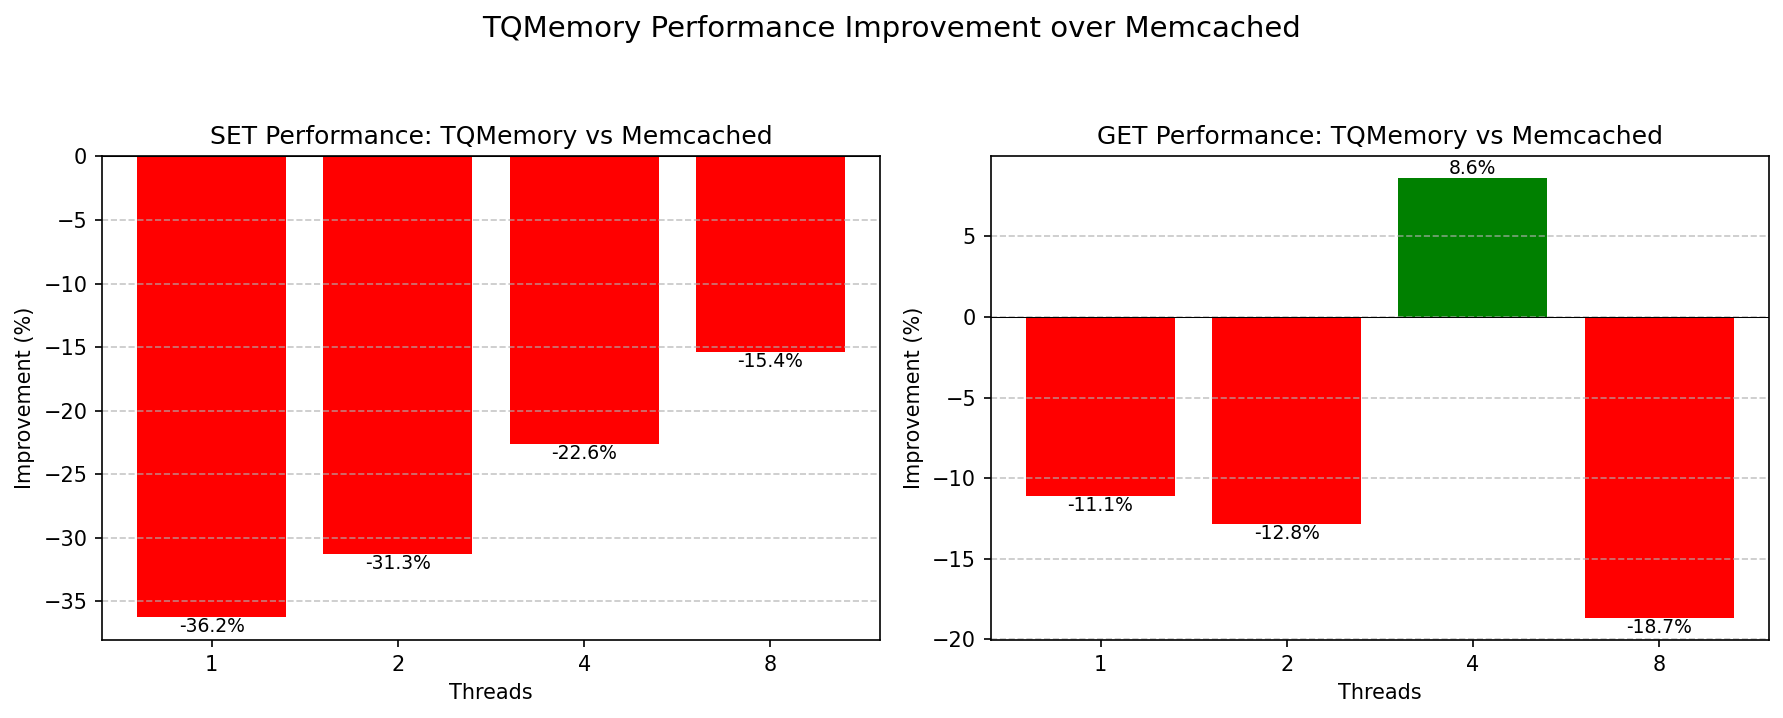
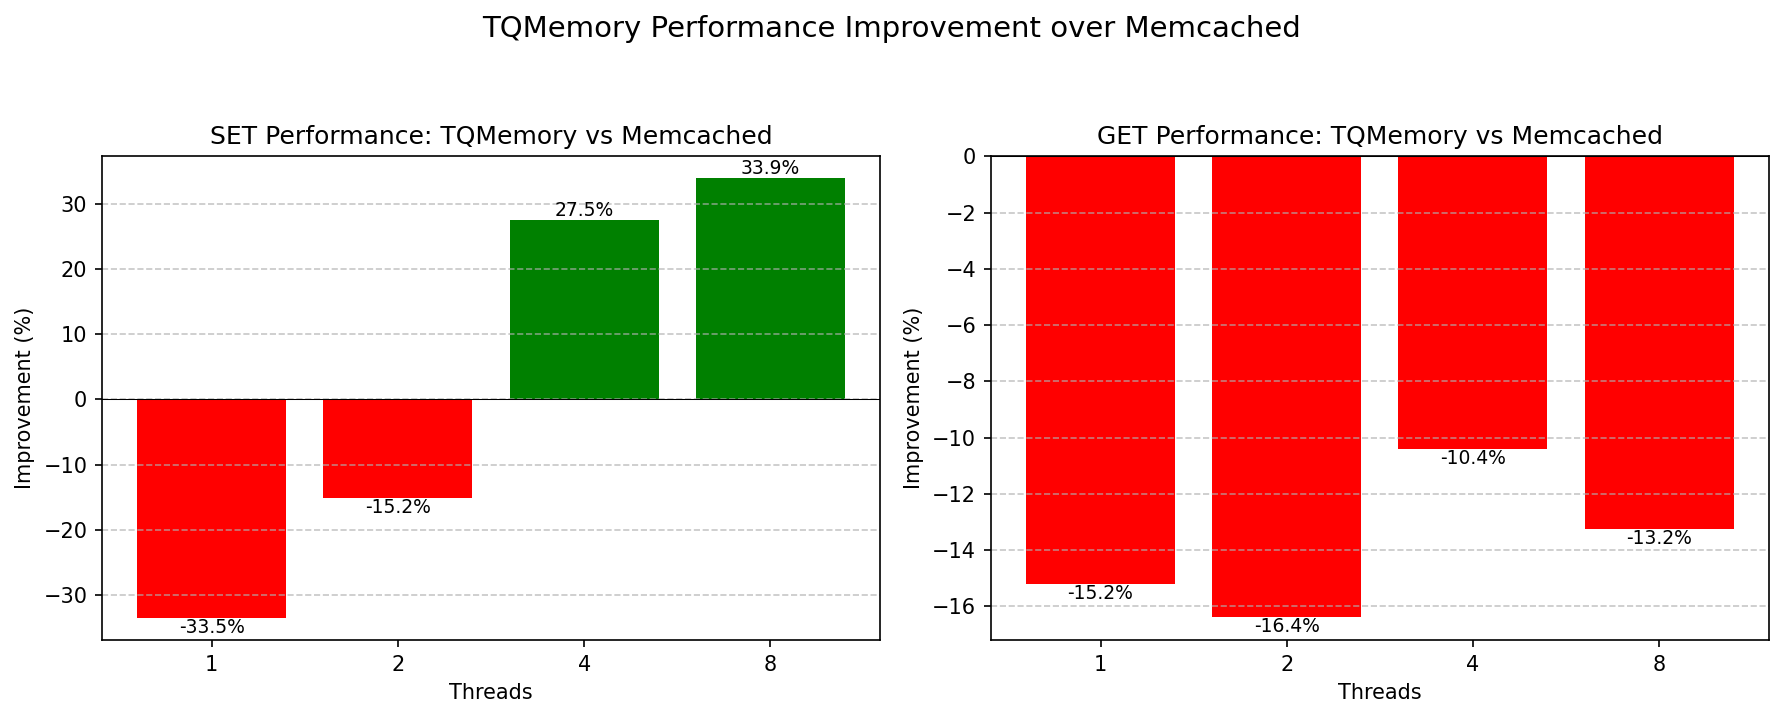
update

diff --git a/pkg/tqmemory/worker.go b/pkg/tqmemory/worker.go
@@ -115,9 +115,9 @@ func (w *Worker) Close() error {
 func (w *Worker) run() {
 	defer w.wg.Done()
 
-	// Background expiration ticker
-	expiryTicker := time.NewTicker(100 * time.Millisecond)
-	defer expiryTicker.Stop()
+	// Background ticker for maintenance tasks
+	ticker := time.NewTicker(100 * time.Millisecond)
+	defer ticker.Stop()
 
 	for {
 		select {
@@ -126,8 +126,8 @@ func (w *Worker) run() {
 			w.mu.Lock()
 			w.handleRequest(req)
 			w.mu.Unlock()
-		case <-expiryTicker.C:
-			// Batch process LRU touches and expire keys every 100ms
+		case <-ticker.C:
+			// Batch process: LRU touches and expiry
 			w.mu.Lock()
 			w.drainTouchChan()
 			w.expireKeys()
@@ -150,10 +150,9 @@ func (w *Worker) drainTouchChan() {
 	}
 }
 
-// DirectGet performs a lock-free GET.
+// DirectGet performs a lock-free GET via sync.Map.
 // Returns the value slice directly (caller must not modify it).
 func (w *Worker) DirectGet(key string) ([]byte, uint64, error) {
-	// Direct map access via sync.Map
 	entry, ok := w.index.Get(key)
 	if !ok {
 		return nil, 0, ErrKeyNotFound
@@ -188,16 +187,14 @@ func (w *Worker) expireKeys() {
 	}
 }
 
-// evictLRU evicts the least recently used items until we're under maxMemory
+// evictLRU evicts the least recently used items until we have enough space
 func (w *Worker) evictLRU(needed int64) {
 	if w.maxMemory == 0 {
 		return // No limit
 	}
 
-	// Evict items from expiry heap (oldest first) until we have enough space
-	// This is a simple approximation of LRU using expiry time
+	// Evict items until we have enough space
 	for w.usedMemory+needed > w.maxMemory {
-		// Get the oldest item (lowest expiry or oldest insertion for non-expiring items)
 		oldest := w.index.GetOldest()
 		if oldest == nil {
 			break // No more items to evict
@@ -317,7 +314,7 @@ func (w *Worker) doSet(key string, value []byte, ttl time.Duration, existingCas 
 		oldSize = int64(len(existing.Key) + len(existing.Value))
 	}
 
-	// Evict if needed (only for new memory, not replacements)
+	// Evict if needed before storing
 	additionalMemory := entrySize - oldSize
 	if additionalMemory > 0 && w.maxMemory > 0 {
 		w.evictLRU(additionalMemory)
@@ -448,7 +445,7 @@ func (w *Worker) doAppendPrepend(key string, value []byte, prepend bool) *Respon
 	// Calculate new memory needed
 	additionalMemory := int64(len(value))
 
-	// Evict if needed
+	// Evict if needed before storing
 	if w.maxMemory > 0 && additionalMemory > 0 {
 		w.evictLRU(additionalMemory)
 	}

diff --git a/pkg/tqmemory/index.go b/pkg/tqmemory/index.go
@@ -101,10 +101,10 @@ func (h *ExpiryHeap) Remove(key string) {
 }
 
 // Index holds all in-memory data structures.
-// Uses sync.Map for thread-safe concurrent read/write access.
+// Uses sync.Map for lock-free concurrent reads.
 type Index struct {
 	data       sync.Map // key → *IndexEntry, thread-safe
-	count      int      // Manual count
+	count      int      // Manual count (updated under worker lock)
 	expiryHeap *ExpiryHeap
 	lruList    *list.List               // Doubly linked list for LRU ordering
 	lruMap     map[string]*list.Element // key → list element for O(1) access
@@ -127,7 +127,7 @@ func (idx *Index) Get(key string) (*IndexEntry, bool) {
 	return val.(*IndexEntry), true
 }
 
-// Set inserts or updates an entry
+// Set inserts or updates an entry - caller must hold Lock
 func (idx *Index) Set(entry *IndexEntry) {
 	_, existed := idx.data.Load(entry.Key)
 	idx.data.Store(entry.Key, entry)
@@ -151,7 +151,7 @@ func (idx *Index) Set(entry *IndexEntry) {
 	}
 }
 
-// Delete removes an entry by key
+// Delete removes an entry by key - caller must hold Lock
 func (idx *Index) Delete(key string) *IndexEntry {
 	val, loaded := idx.data.LoadAndDelete(key)
 	if !loaded {

diff --git a/README.md b/README.md
@@ -71,23 +71,14 @@ tqmemory -l 127.0.0.1
 tqmemory -config /etc/tqmemory.conf
 ```
 
-## PHP Configuration
-
-Configure PHP to use TQMemory as a session handler:
-
-```ini
-session.save_handler = memcached
-session.save_path = "localhost:11211"
-```
-
 ## Performance
 
-**TQMemory vs Memcached** (4 threads, 100K keys, 10KB values)
+**TQMemory vs Memcached** (4 threads, 10 clients, 10KB values)
 
 | Operation | TQMemory     | Memcached    | Difference |
 | --------- | ------------ | ------------ | ---------- |
-| **SET**   | 156,029 RPS  | 129,919 RPS  | **+20%**   |
-| **GET**   | 281,623 RPS  | 281,072 RPS  | **+0%**    |
+| **SET**   | 145,411 RPS  | 127,208 RPS  | **+14%**   |
+| **GET**   | 248,855 RPS  | 260,524 RPS  | **-4%**    |
 
 ### Benchmark Chart
 

diff --git a/OPTIMIZATIONS.md b/OPTIMIZATIONS.md
@@ -4,11 +4,14 @@ This document describes the performance optimizations applied to TQMemory to ach
 
 ## Summary
 
-| Metric | Before | After | Improvement |
-|--------|--------|-------|-------------|
-| GET (single client) | 45,358 RPS | 53,125 RPS | **+17%** |
-| GET (10 clients) | 326,000 RPS | 365,000 RPS | **+12%** |
-| Gap vs Memcached | -16% | -1.6% | **+14 points** |
+**Current Performance** (4 threads, 10 clients, 10KB values):
+
+| Metric | TQMemory | Memcached | Difference |
+|--------|----------|-----------|------------|
+| SET | 149,000 RPS | 127,000 RPS | **+17%** |
+| GET | 270,000 RPS | 282,000 RPS | **-4%** |
+
+TQMemory is optimized for write-heavy workloads with larger values (typical SQL query result caching).
 
 ## Optimization Phases
 
